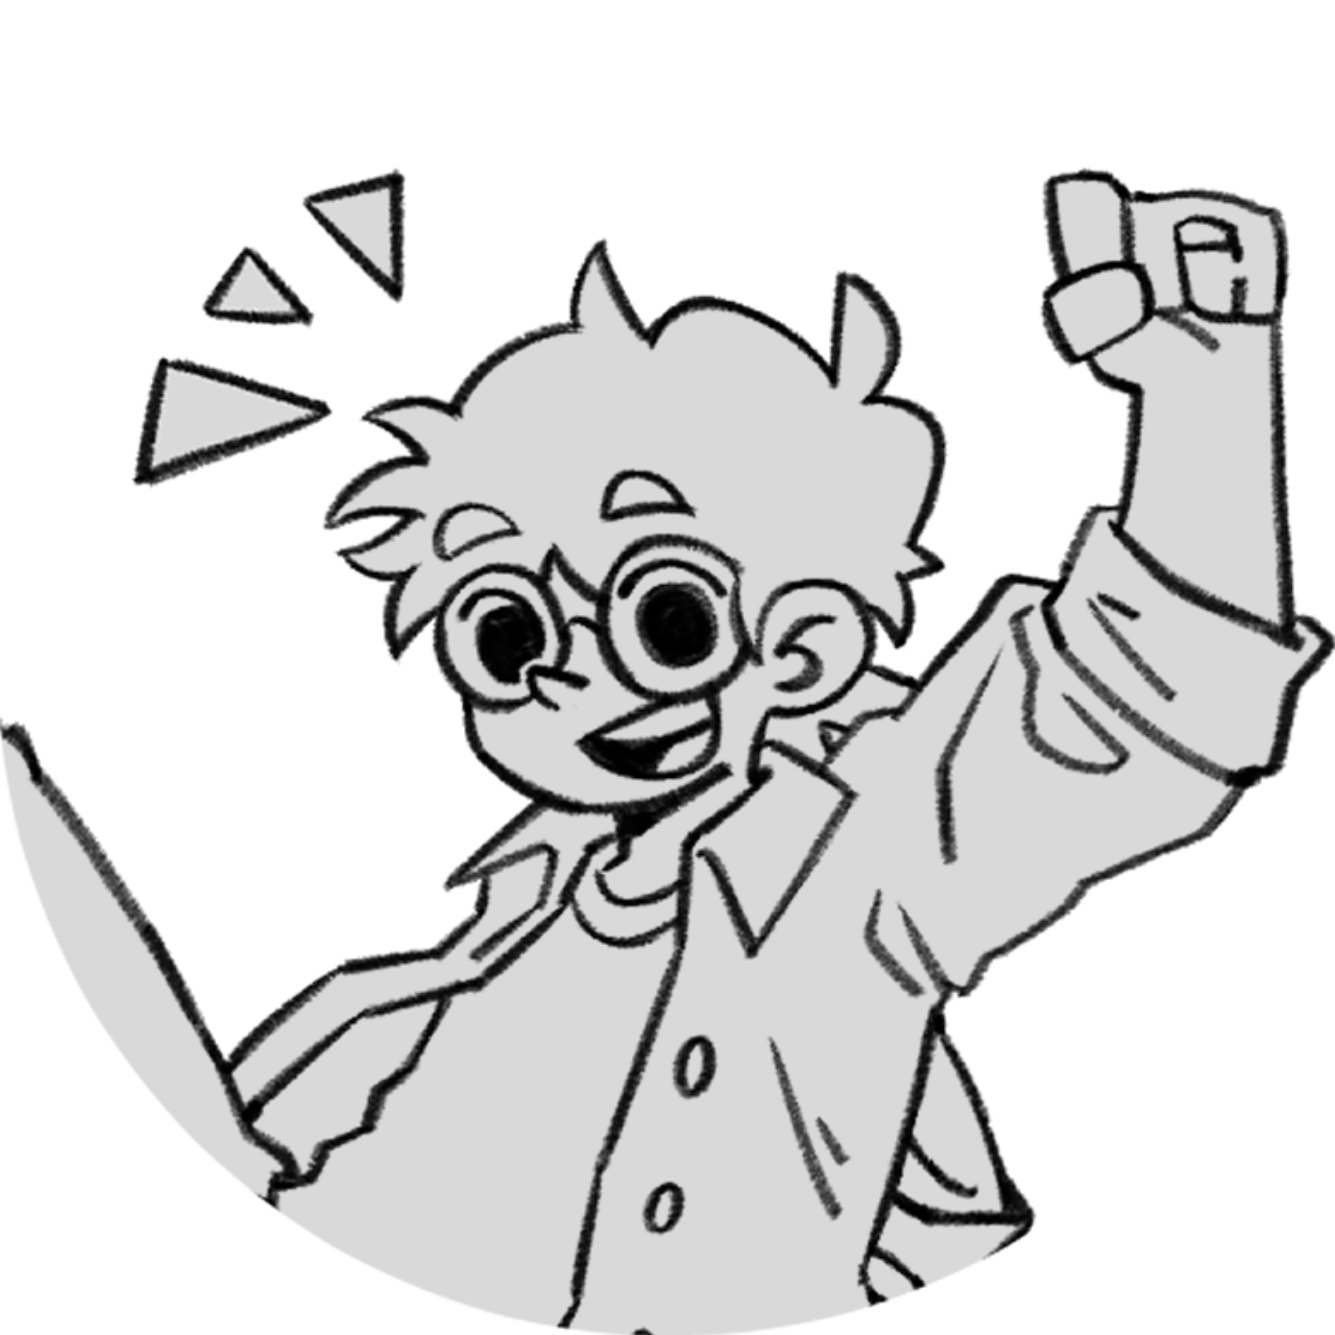
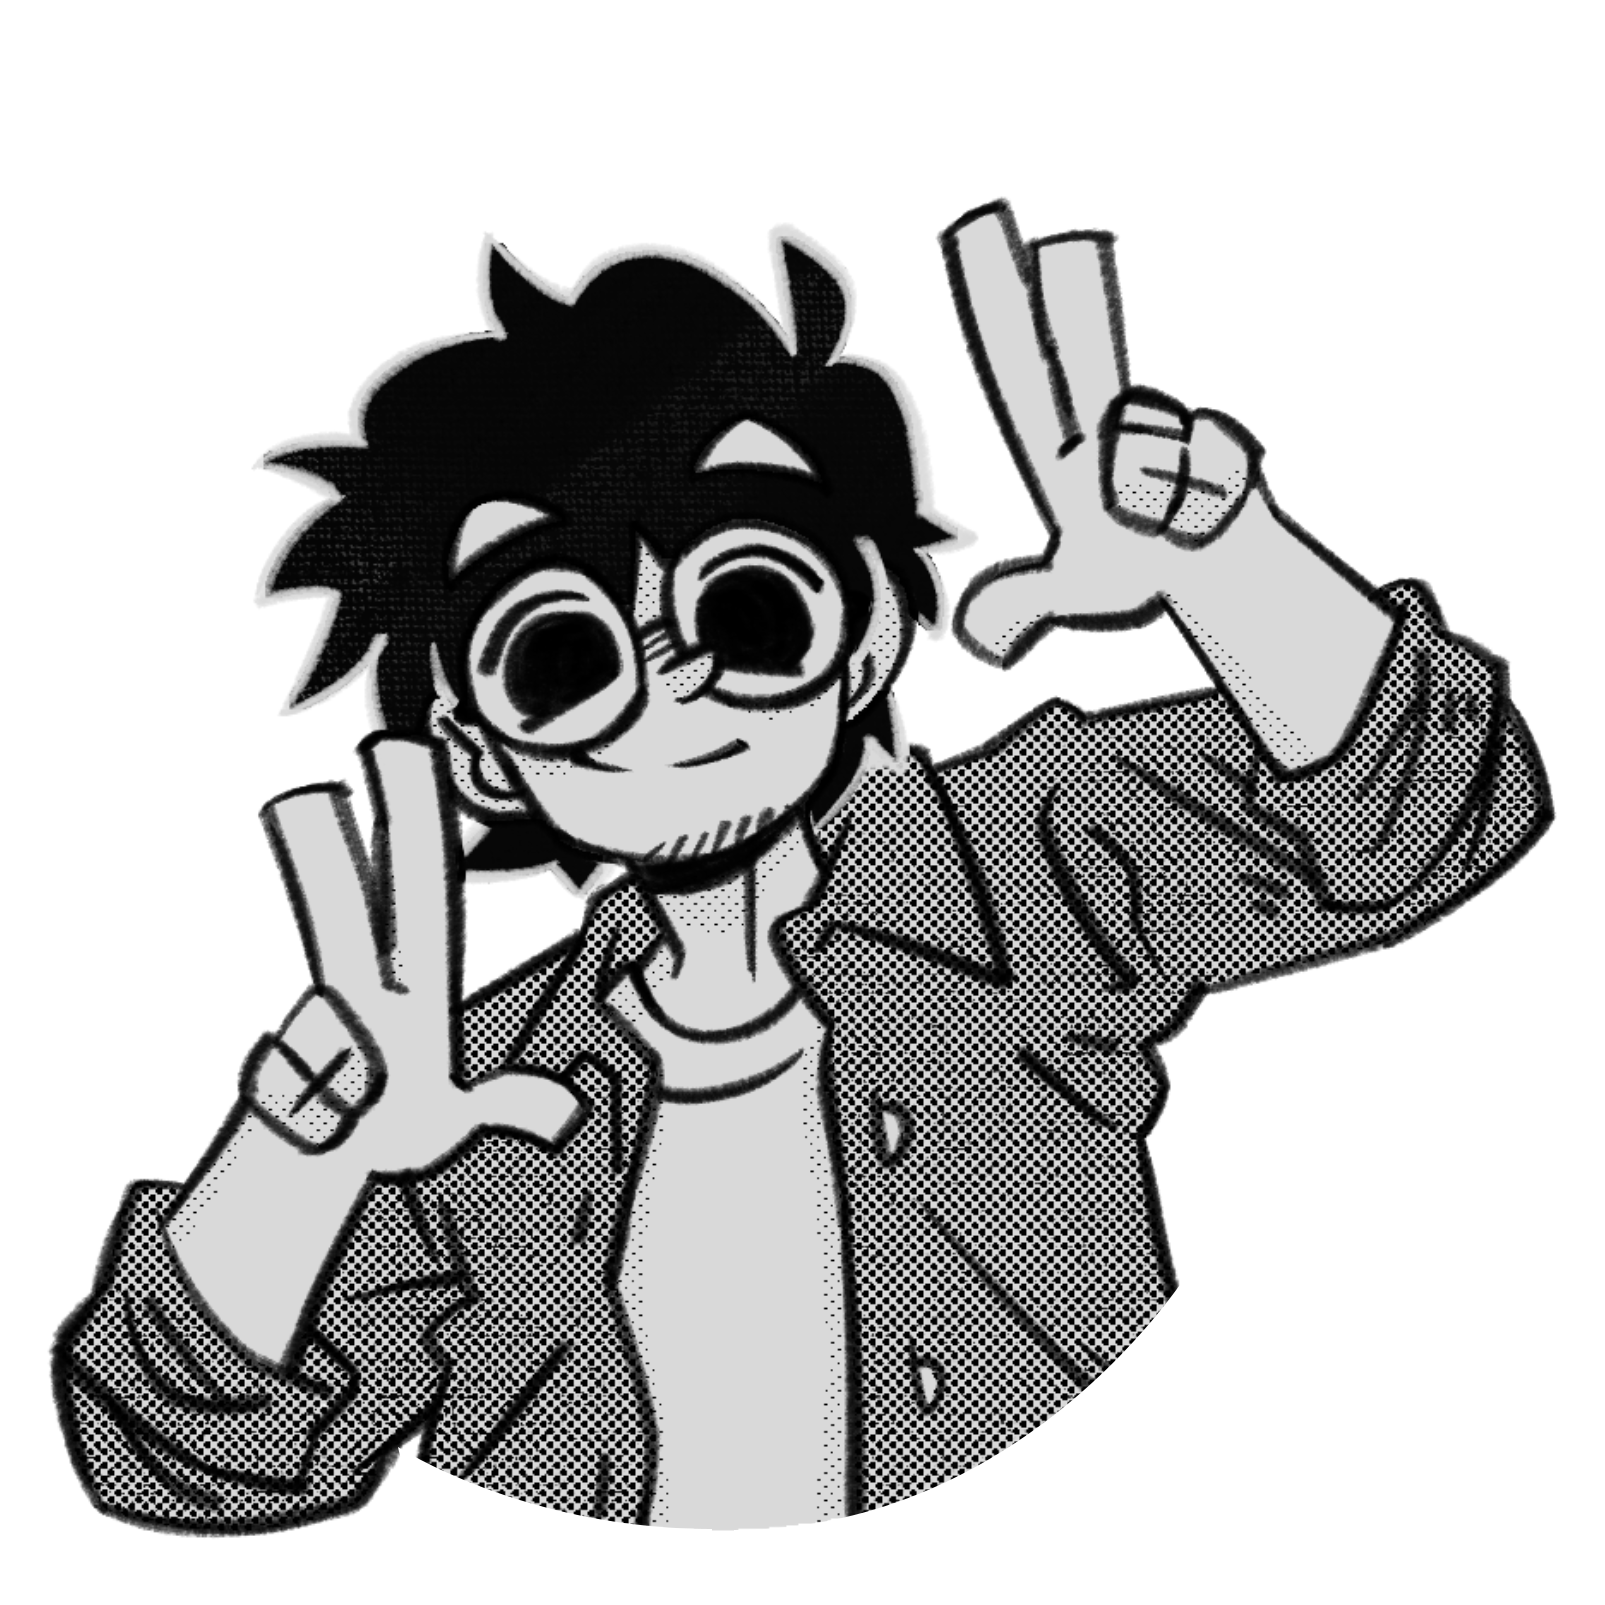
atualização de imagem e bordas

diff --git a/index.html b/index.html
@@ -51,7 +51,7 @@
                 <div class="titulo-lines">
                     
                     <div class="titulo-lines-lines">
-                        <h2 class="titulo-nome borda-texto">ERYCK<br>TORRES</h2>
+                        <h2 class="titulo-nome bordinha">ERYCK<br>TORRES</h2>
                         <h3 class="subtitulo">AKA.: KYUKIEW</h3>
                     </div>
                     
@@ -84,9 +84,11 @@
 
         <section id="about-me" class="about">
             <div class="container">
-                <svg viewBox="0 0 650 650">
+                <svg viewBox="0 0 660 660">
                     <!-- Círculo Preto Central -->
                     <circle class="circle" cx="325" cy="325" r="235" fill="black" />
+                    
+
 
                     <!-- Caminho para o texto ao redor -->
                     <path id="textPath" d="M325,50 a275,275 0 1,1 -0.1,0" fill="none" />
@@ -96,6 +98,14 @@
                             ABOUT ME • ABOUT ME • ABOUT ME • ABOUT ME • ABOUT ME • ABOUT ME • ABOUT ME • 
                         </textPath>
                     </text>
+
+                    <image
+                        href="./assets/images/myBrand/about_draw.png" 
+                        x="55" y="-30" 
+                        width="620" height="620"
+                        preserveAspectRatio="xMidYMid meet"
+                        clip-path="url(#circleClip)"
+                    />
                 </svg>
             </div>
 

diff --git a/styles/index.css b/styles/index.css
@@ -45,16 +45,26 @@
         0.1250rem 0.1250rem 0 var(--preto);
 }
 
+.bordinha{
+    -webkit-text-stroke: var(--preto);
+    -webkit-text-stroke-width: 0.15rem;
+    paint-order: stroke fill;
+}
+
 .borda-texto{
     text-shadow: var(--borda-texto);
 }
 
 .borda-texto-branco{
-    text-shadow: var(--borda-texto-branco);
+    -webkit-text-stroke: var(--branco);
+    -webkit-text-stroke-width: 0.2rem;
+    paint-order: stroke fill;
 }
 
 .borda-texto-preto2{
-    text-shadow: var(--borda-texto-preto2);
+    -webkit-text-stroke: var(--preto);
+    -webkit-text-stroke-width: 0.4rem;
+    paint-order: stroke fill;
 }
 
 ::-webkit-scrollbar {
@@ -601,6 +611,7 @@ html {
     height: 650px;
 }
 
+
 .text {
     fill: var(--branco);
     font-family: var(--fonte-principal);
@@ -608,6 +619,7 @@ html {
     font-size: 2.375rem;
     transform-origin: 50% 50%;
     animation: rotate 25s linear infinite;
+    
 }
 
 @keyframes rotate {
@@ -1473,7 +1485,7 @@ html {
     padding-top: 7%;
     margin-left: 7%;
     margin-right: 7%;
-    width: 40%;
+    width: 50%;
 }
 
 .contact-title{
@@ -1498,7 +1510,7 @@ html {
     display: flex;
     flex-direction: column;
     gap: 0.9375rem;
-    width: auto;
+    width: 80%;
     padding-bottom: 4.375rem;
 }
 
@@ -1582,6 +1594,10 @@ html {
     .textblock-alt{
         font-size: 1rem;
         text-align: center;
+    }
+
+    .contact-form {
+        width: auto;
     }
 
     .contact-form input,
